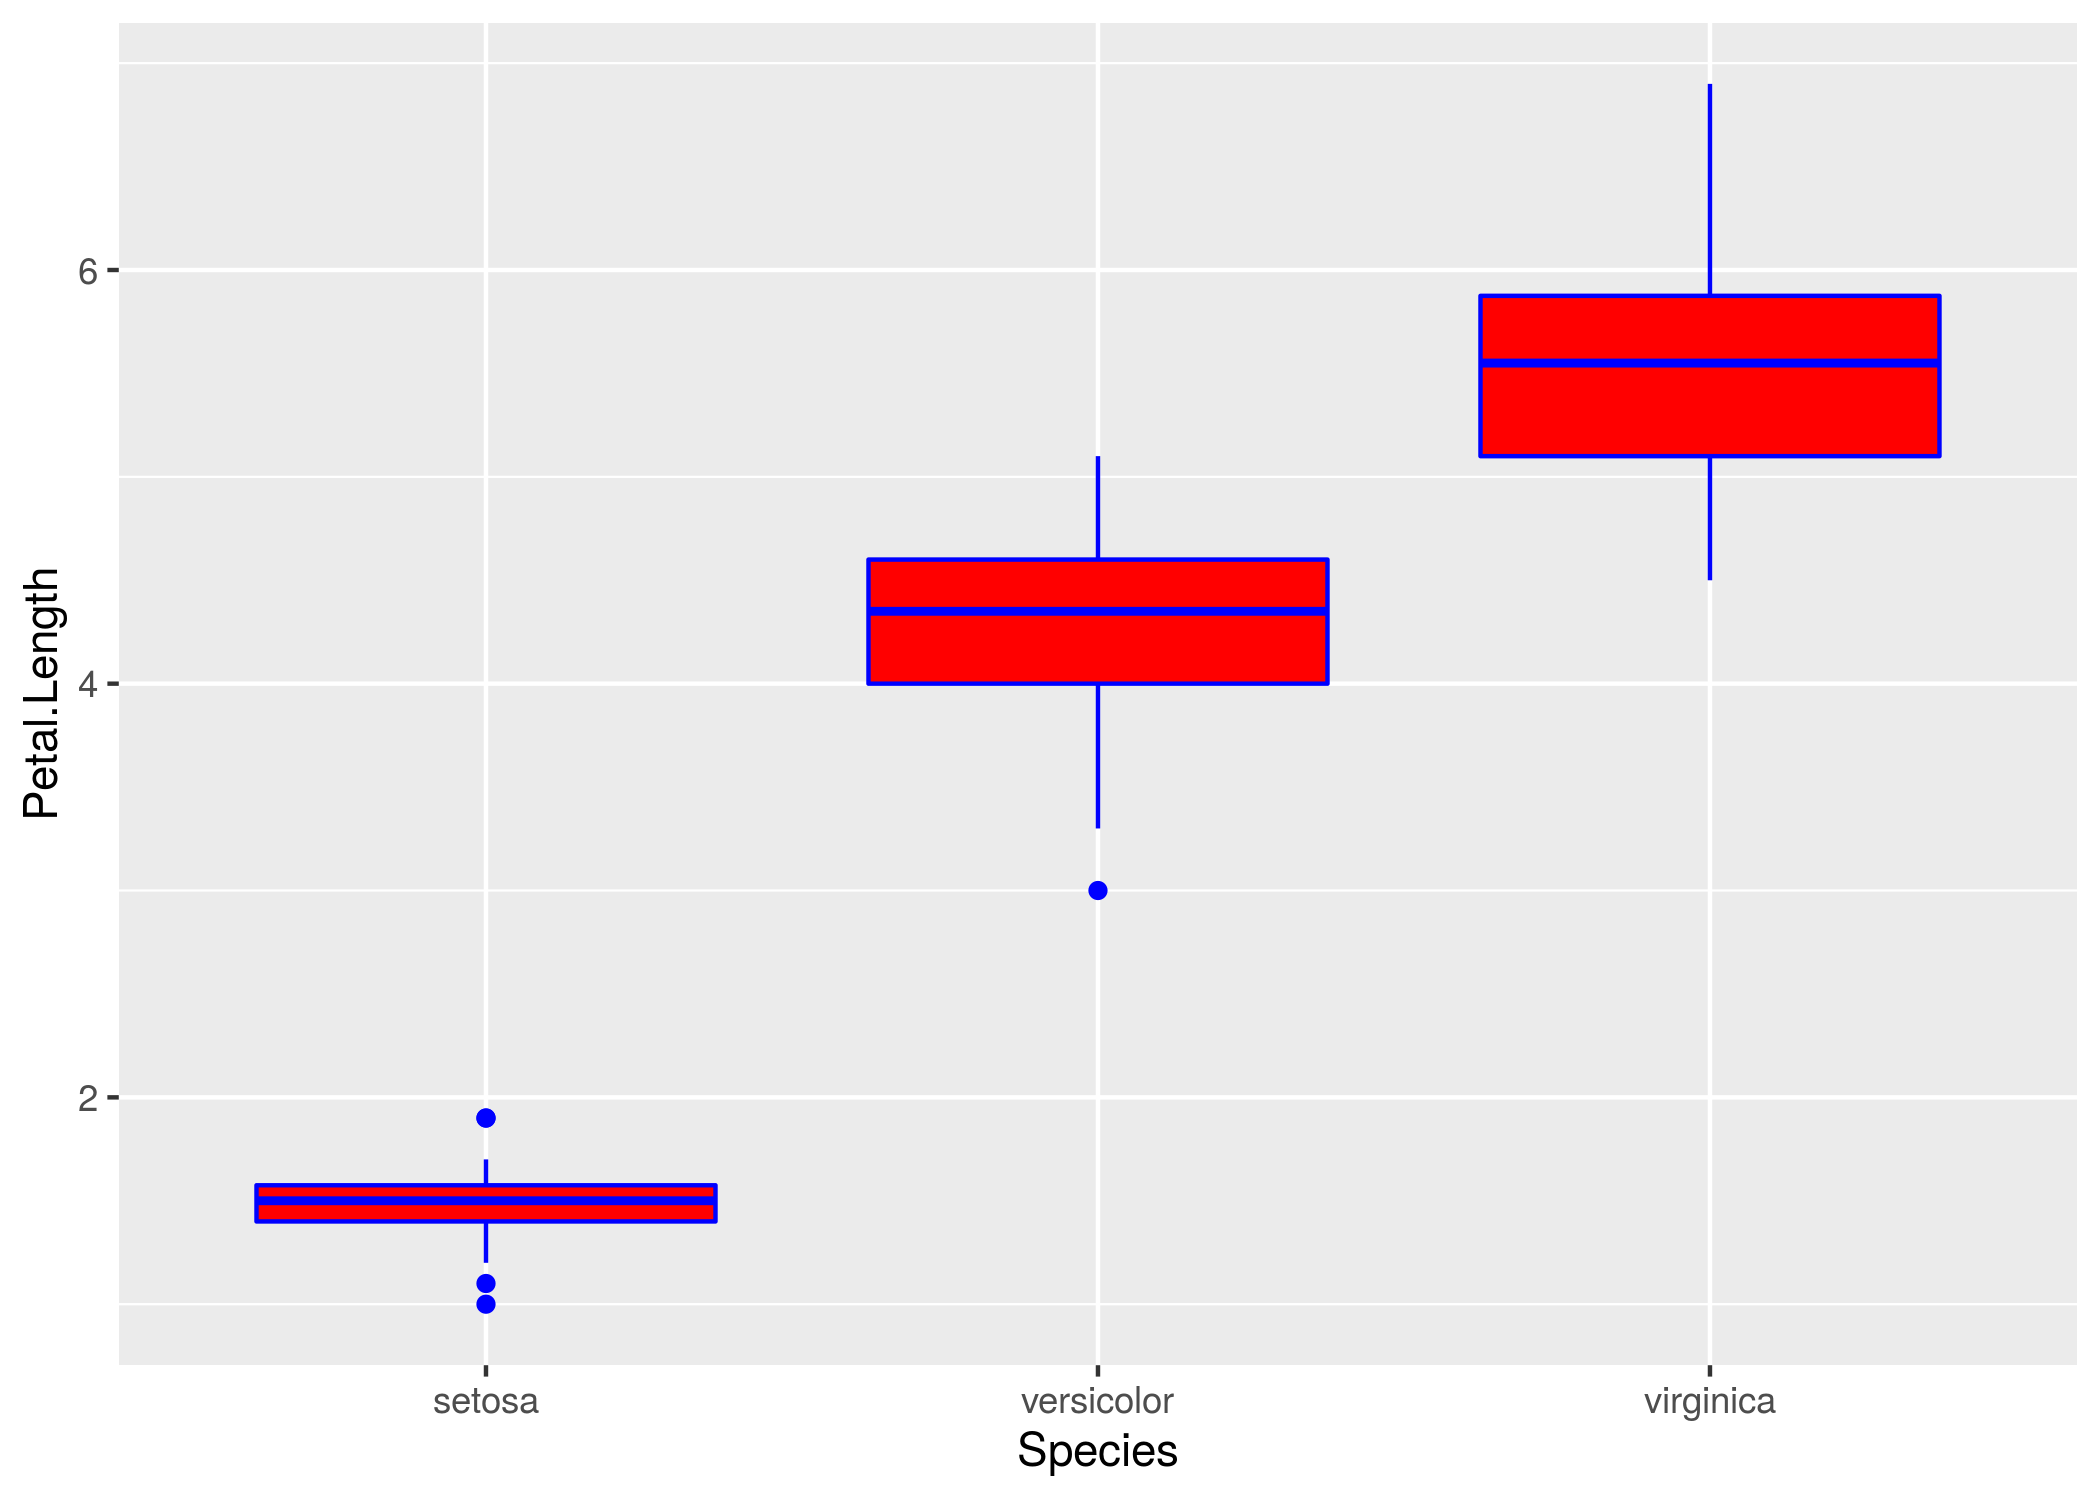
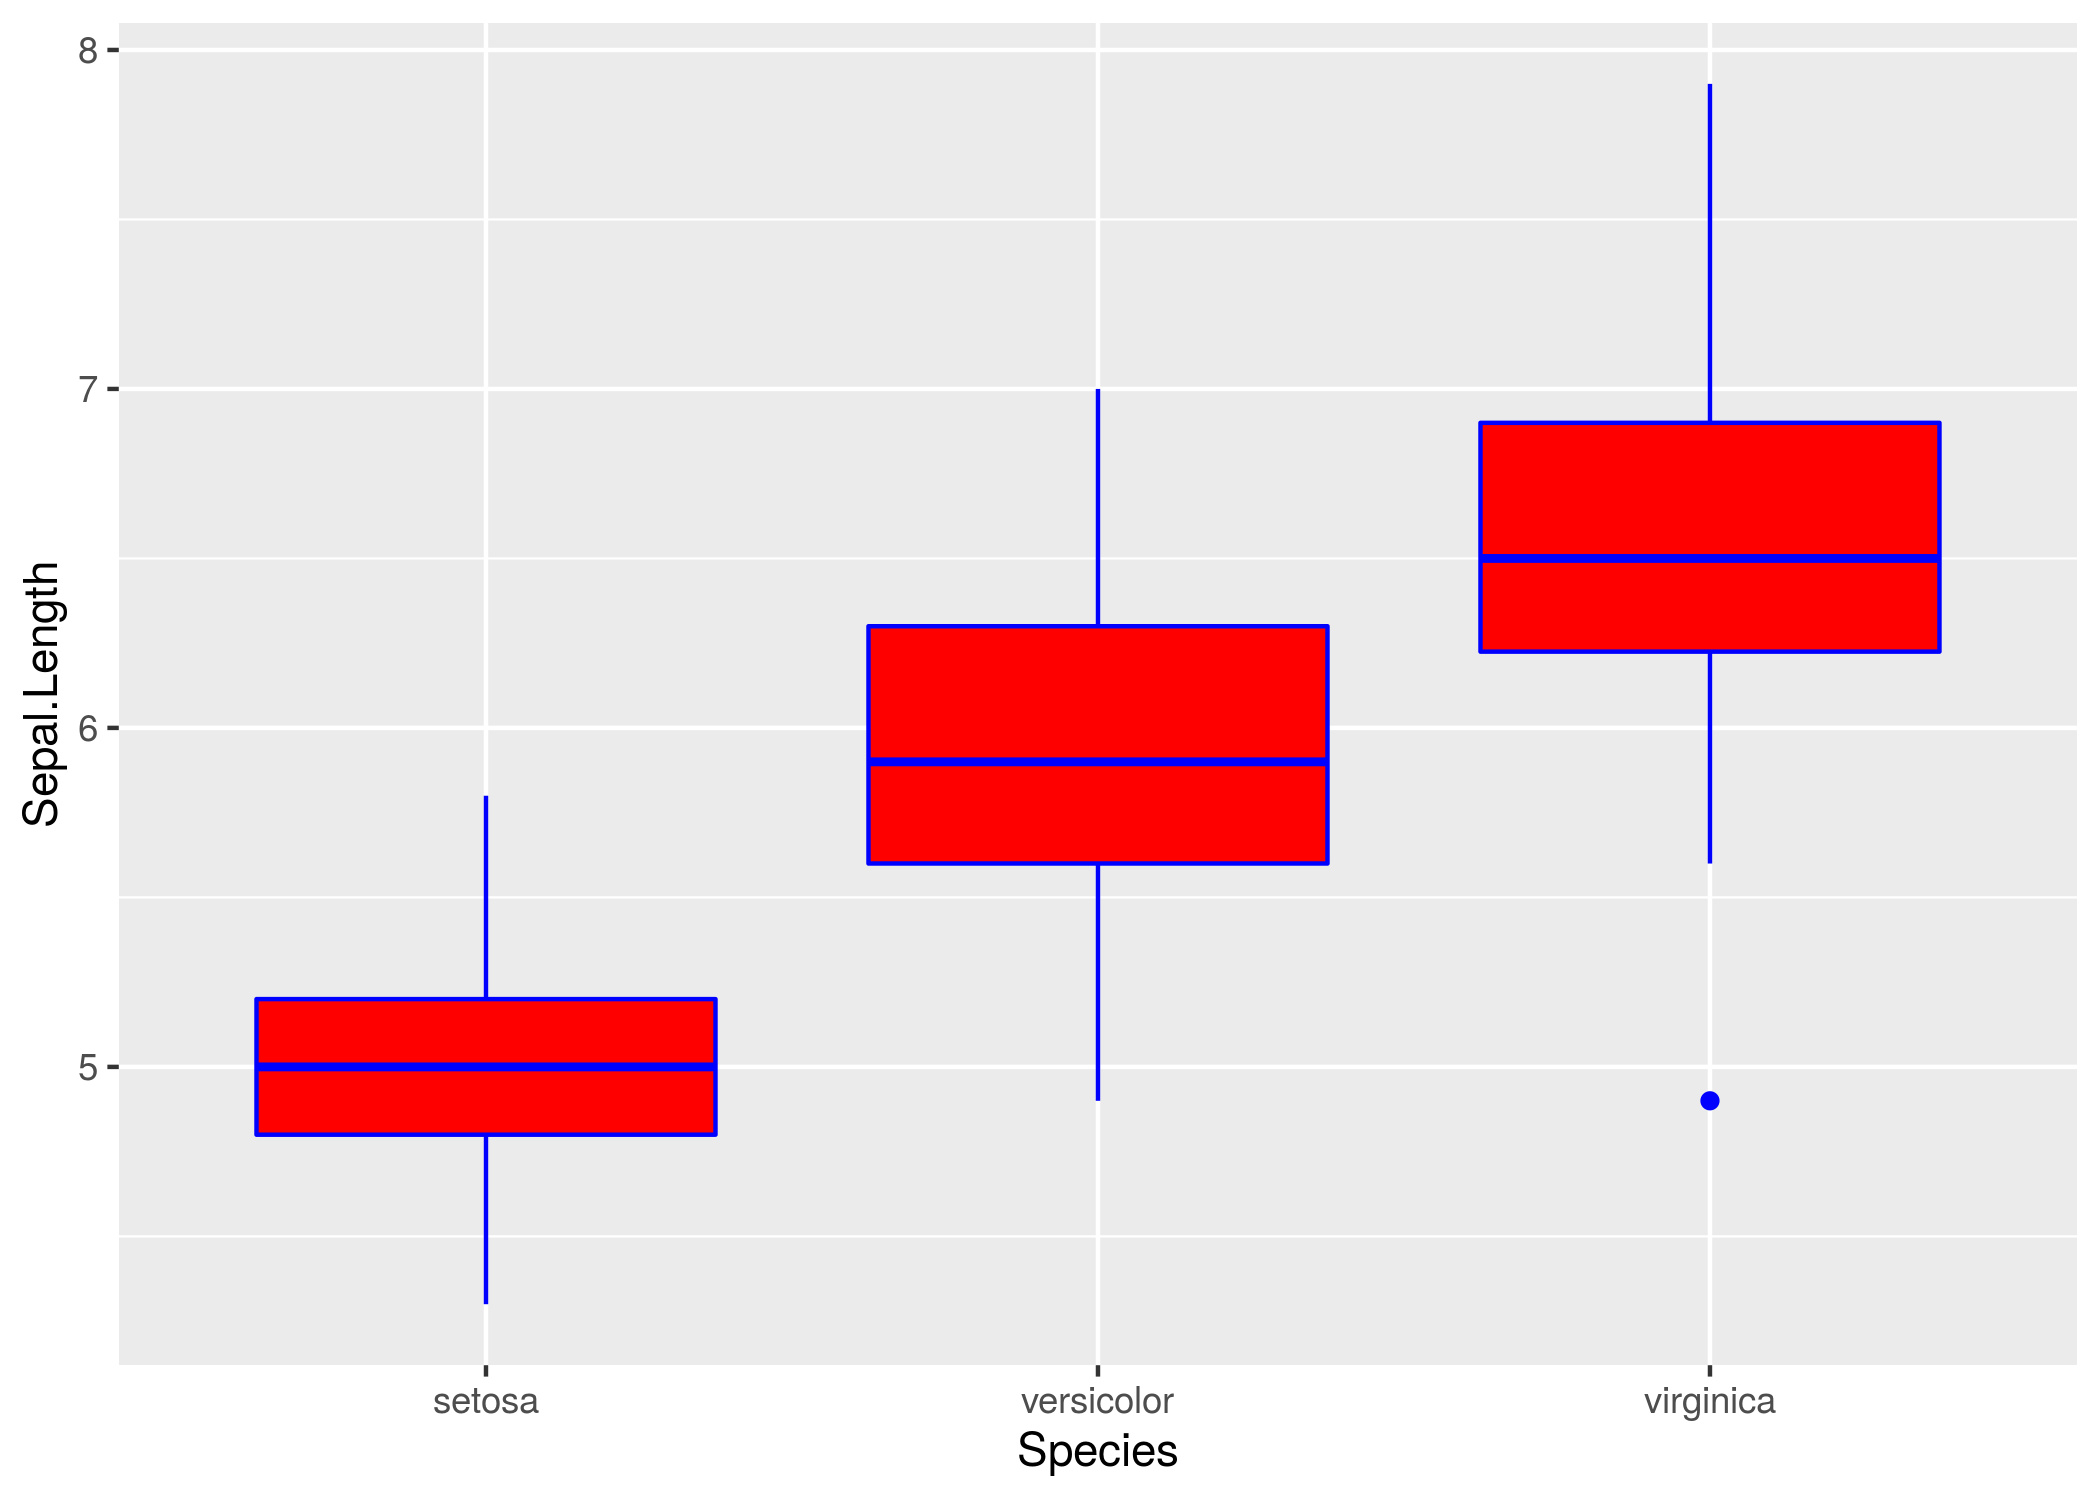
updating the first practice plot

diff --git a/practice_plot_github.html b/practice_plot_github.html
@@ -521,7 +521,7 @@ summary {
 ## 148          6.5         3.0          5.2         2.0  virginica
 ## 149          6.2         3.4          5.4         2.3  virginica
 ## 150          5.9         3.0          5.1         1.8  virginica</code></pre>
-<pre class="r"><code>ggplot(iris, aes(x = Species, y = Petal.Length)) +
+<pre class="r"><code>ggplot(iris, aes(x = Species, y = Sepal.Length)) +
   geom_boxplot(color = &quot;blue&quot;, fill = &quot;red&quot;) -&gt; PracticePlot 
 
 ggsave(&quot;practice_plot.png&quot;, PracticePlot)</code></pre>
